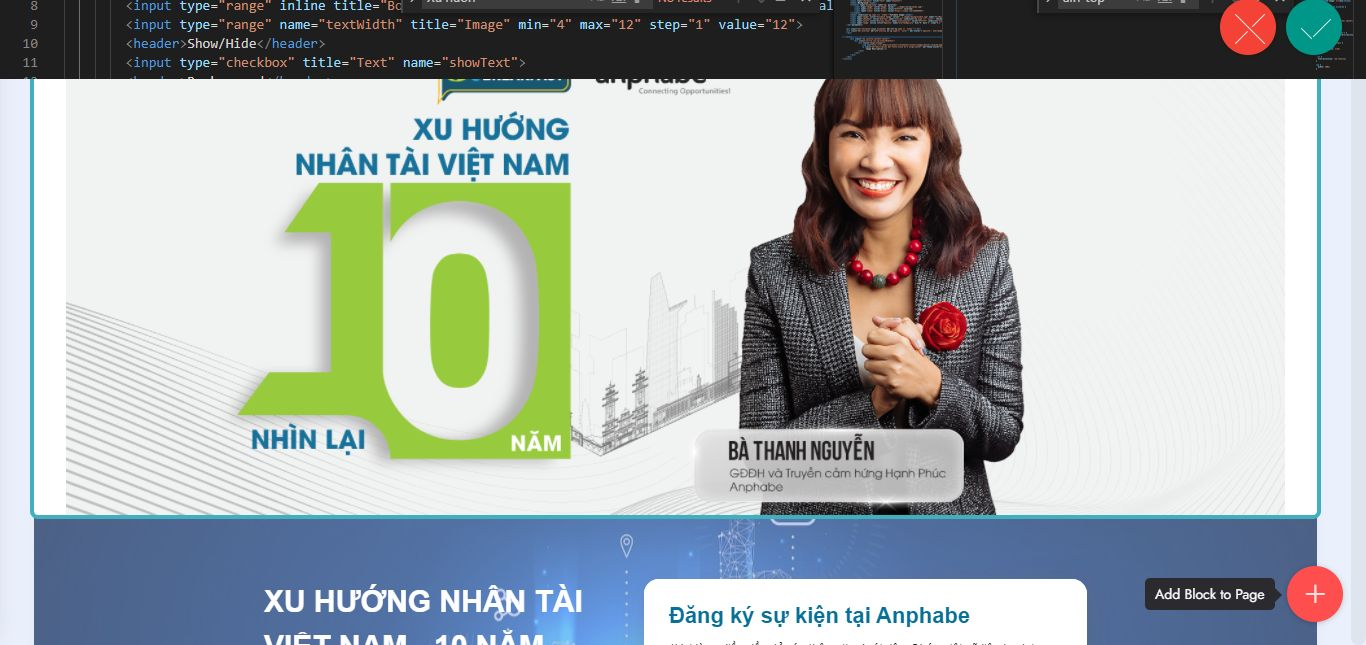
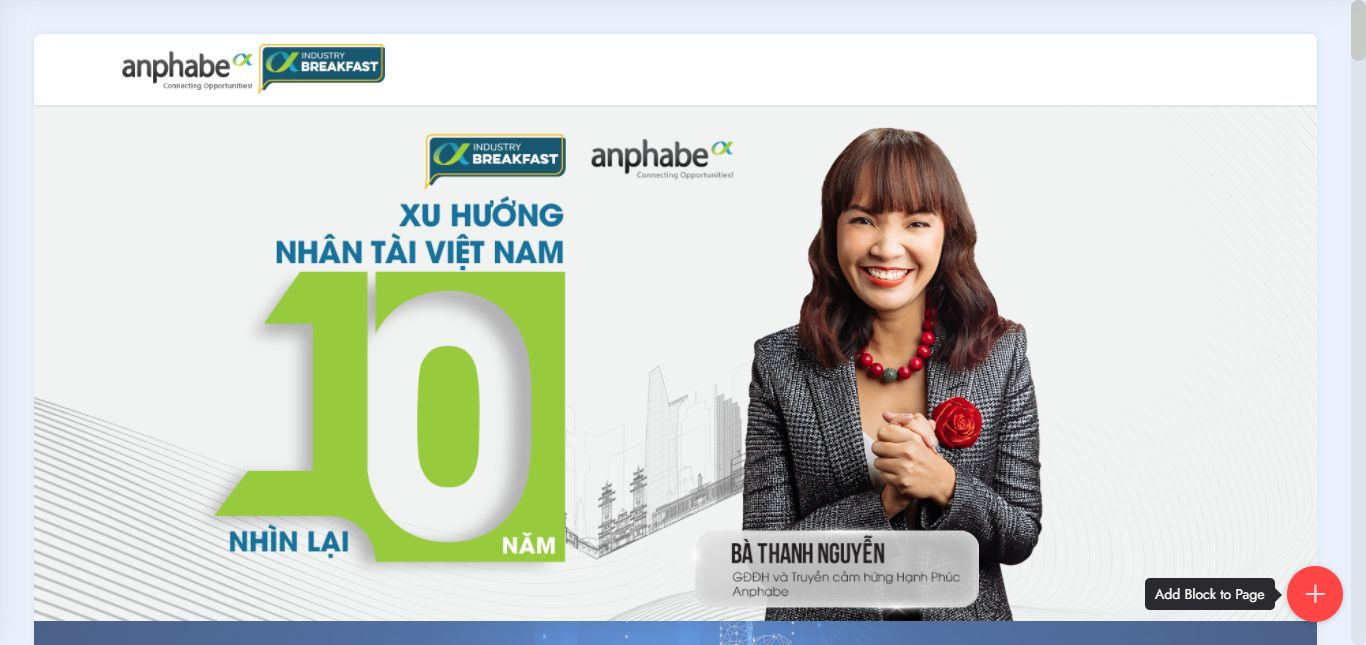
up

diff --git a/c/breakfast/index.html b/c/breakfast/index.html
@@ -74,7 +74,25 @@ height="0" width="0" style="display:none;visibility:hidden"></iframe></noscript>
     </nav>
 </section>
 
-<section data-bs-version="5.1" class="header9 cid-u6319yKajZ mbr-parallax-background" id="formlead_new" data-rv-view="1397">
+<section data-bs-version="5.1" class="image3 cid-u6embLya7y" id="image3-30">
+    
+
+    
+    
+
+    <div>
+        <div class="row justify-content-center">
+            <div class="col-12 col-lg-12">
+                <div class="image-wrapper">
+                    <img src="assets/images/banner-landing-page-1882x773-6mar.webp" alt="">
+                    
+                </div>
+            </div>
+        </div>
+    </div>
+</section>
+
+<section data-bs-version="5.1" class="header9 cid-u6319yKajZ mbr-parallax-background" id="formlead_new" data-rv-view="1712">
 
     
 
@@ -550,8 +568,8 @@ height="0" width="0" style="display:none;visibility:hidden"></iframe></noscript>
         
         <div class="row mbr-gallery mt-4">
             <div class="col-12 col-md-6 col-lg-2 item gallery-image">
-                <div class="item-wrapper" data-toggle="modal" data-bs-toggle="modal" data-target="#u6ejbqdedN-modal" data-bs-target="#u6ejbqdedN-modal">
-                    <img class="w-100" src="assets/images/industrybreakfast-img-1.webp" alt="" data-slide-to="0" data-bs-slide-to="0" data-target="#lb-u6ejbqdedN" data-bs-target="#lb-u6ejbqdedN">
+                <div class="item-wrapper" data-toggle="modal" data-bs-toggle="modal" data-target="#u6eqyDIftd-modal" data-bs-target="#u6eqyDIftd-modal">
+                    <img class="w-100" src="assets/images/industrybreakfast-img-1.webp" alt="" data-slide-to="0" data-bs-slide-to="0" data-target="#lb-u6eqyDIftd" data-bs-target="#lb-u6eqyDIftd">
                     <div class="icon-wrapper">
                         <span class="mobi-mbri mobi-mbri-search mbr-iconfont mbr-iconfont-btn"></span>
                     </div>
@@ -559,8 +577,8 @@ height="0" width="0" style="display:none;visibility:hidden"></iframe></noscript>
                 
             </div>
             <div class="col-12 col-md-6 col-lg-2 item gallery-image">
-                <div class="item-wrapper" data-toggle="modal" data-bs-toggle="modal" data-target="#u6ejbqdedN-modal" data-bs-target="#u6ejbqdedN-modal">
-                    <img class="w-100" src="assets/images/industrybreakfast-img-2.webp" alt="" data-slide-to="1" data-bs-slide-to="1" data-target="#lb-u6ejbqdedN" data-bs-target="#lb-u6ejbqdedN">
+                <div class="item-wrapper" data-toggle="modal" data-bs-toggle="modal" data-target="#u6eqyDIftd-modal" data-bs-target="#u6eqyDIftd-modal">
+                    <img class="w-100" src="assets/images/industrybreakfast-img-2.webp" alt="" data-slide-to="1" data-bs-slide-to="1" data-target="#lb-u6eqyDIftd" data-bs-target="#lb-u6eqyDIftd">
                     <div class="icon-wrapper">
                         <span class="mobi-mbri mobi-mbri-search mbr-iconfont mbr-iconfont-btn"></span>
                     </div>
@@ -568,8 +586,8 @@ height="0" width="0" style="display:none;visibility:hidden"></iframe></noscript>
                 
             </div>
             <div class="col-12 col-md-6 col-lg-2 item gallery-image">
-                <div class="item-wrapper" data-toggle="modal" data-bs-toggle="modal" data-target="#u6ejbqdedN-modal" data-bs-target="#u6ejbqdedN-modal">
-                    <img class="w-100" src="assets/images/industrybreakfast-img-3.webp" alt="" data-slide-to="2" data-bs-slide-to="2" data-target="#lb-u6ejbqdedN" data-bs-target="#lb-u6ejbqdedN">
+                <div class="item-wrapper" data-toggle="modal" data-bs-toggle="modal" data-target="#u6eqyDIftd-modal" data-bs-target="#u6eqyDIftd-modal">
+                    <img class="w-100" src="assets/images/industrybreakfast-img-3.webp" alt="" data-slide-to="2" data-bs-slide-to="2" data-target="#lb-u6eqyDIftd" data-bs-target="#lb-u6eqyDIftd">
                     <div class="icon-wrapper">
                         <span class="mobi-mbri mobi-mbri-search mbr-iconfont mbr-iconfont-btn"></span>
                     </div>
@@ -577,72 +595,72 @@ height="0" width="0" style="display:none;visibility:hidden"></iframe></noscript>
                 
             </div>
             <div class="col-12 col-md-6 col-lg-2 item gallery-image">
-                <div class="item-wrapper" data-toggle="modal" data-bs-toggle="modal" data-target="#u6ejbqdedN-modal" data-bs-target="#u6ejbqdedN-modal">
-                    <img class="w-100" src="assets/images/industrybreakfast-img-4.webp" alt="" data-slide-to="3" data-bs-slide-to="3" data-target="#lb-u6ejbqdedN" data-bs-target="#lb-u6ejbqdedN">
+                <div class="item-wrapper" data-toggle="modal" data-bs-toggle="modal" data-target="#u6eqyDIftd-modal" data-bs-target="#u6eqyDIftd-modal">
+                    <img class="w-100" src="assets/images/industrybreakfast-img-4.webp" alt="" data-slide-to="3" data-bs-slide-to="3" data-target="#lb-u6eqyDIftd" data-bs-target="#lb-u6eqyDIftd">
                     <div class="icon-wrapper">
                         <span class="mobi-mbri mobi-mbri-search mbr-iconfont mbr-iconfont-btn"></span>
                     </div>
                 </div>
                 
             </div><div class="col-12 col-md-6 col-lg-2 item gallery-image">
-                <div class="item-wrapper" data-toggle="modal" data-bs-toggle="modal" data-target="#u6ejbqdedN-modal" data-bs-target="#u6ejbqdedN-modal">
-                    <img class="w-100" src="assets/images/industrybreakfast-img-5.webp" alt="" data-slide-to="4" data-bs-slide-to="4" data-target="#lb-u6ejbqdedN" data-bs-target="#lb-u6ejbqdedN">
+                <div class="item-wrapper" data-toggle="modal" data-bs-toggle="modal" data-target="#u6eqyDIftd-modal" data-bs-target="#u6eqyDIftd-modal">
+                    <img class="w-100" src="assets/images/industrybreakfast-img-5.webp" alt="" data-slide-to="4" data-bs-slide-to="4" data-target="#lb-u6eqyDIftd" data-bs-target="#lb-u6eqyDIftd">
                     <div class="icon-wrapper">
                         <span class="mobi-mbri mobi-mbri-search mbr-iconfont mbr-iconfont-btn"></span>
                     </div>
                 </div>
                 
             </div><div class="col-12 col-md-6 col-lg-2 item gallery-image">
-                <div class="item-wrapper" data-toggle="modal" data-bs-toggle="modal" data-target="#u6ejbqdedN-modal" data-bs-target="#u6ejbqdedN-modal">
-                    <img class="w-100" src="assets/images/industrybreakfast-img-6.webp" alt="" data-slide-to="5" data-bs-slide-to="5" data-target="#lb-u6ejbqdedN" data-bs-target="#lb-u6ejbqdedN">
+                <div class="item-wrapper" data-toggle="modal" data-bs-toggle="modal" data-target="#u6eqyDIftd-modal" data-bs-target="#u6eqyDIftd-modal">
+                    <img class="w-100" src="assets/images/industrybreakfast-img-6.webp" alt="" data-slide-to="5" data-bs-slide-to="5" data-target="#lb-u6eqyDIftd" data-bs-target="#lb-u6eqyDIftd">
                     <div class="icon-wrapper">
                         <span class="mobi-mbri mobi-mbri-search mbr-iconfont mbr-iconfont-btn"></span>
                     </div>
                 </div>
                 
             </div><div class="col-12 col-md-6 col-lg-2 item gallery-image">
-                <div class="item-wrapper" data-toggle="modal" data-bs-toggle="modal" data-target="#u6ejbqdedN-modal" data-bs-target="#u6ejbqdedN-modal">
-                    <img class="w-100" src="assets/images/industrybreakfast-img-7.webp" alt="" data-slide-to="6" data-bs-slide-to="6" data-target="#lb-u6ejbqdedN" data-bs-target="#lb-u6ejbqdedN">
+                <div class="item-wrapper" data-toggle="modal" data-bs-toggle="modal" data-target="#u6eqyDIftd-modal" data-bs-target="#u6eqyDIftd-modal">
+                    <img class="w-100" src="assets/images/industrybreakfast-img-7.webp" alt="" data-slide-to="6" data-bs-slide-to="6" data-target="#lb-u6eqyDIftd" data-bs-target="#lb-u6eqyDIftd">
                     <div class="icon-wrapper">
                         <span class="mobi-mbri mobi-mbri-search mbr-iconfont mbr-iconfont-btn"></span>
                     </div>
                 </div>
                 
             </div><div class="col-12 col-md-6 col-lg-2 item gallery-image">
-                <div class="item-wrapper" data-toggle="modal" data-bs-toggle="modal" data-target="#u6ejbqdedN-modal" data-bs-target="#u6ejbqdedN-modal">
-                    <img class="w-100" src="assets/images/industrybreakfast-img-8.webp" alt="" data-slide-to="7" data-bs-slide-to="7" data-target="#lb-u6ejbqdedN" data-bs-target="#lb-u6ejbqdedN">
+                <div class="item-wrapper" data-toggle="modal" data-bs-toggle="modal" data-target="#u6eqyDIftd-modal" data-bs-target="#u6eqyDIftd-modal">
+                    <img class="w-100" src="assets/images/industrybreakfast-img-8.webp" alt="" data-slide-to="7" data-bs-slide-to="7" data-target="#lb-u6eqyDIftd" data-bs-target="#lb-u6eqyDIftd">
                     <div class="icon-wrapper">
                         <span class="mobi-mbri mobi-mbri-search mbr-iconfont mbr-iconfont-btn"></span>
                     </div>
                 </div>
                 
             </div><div class="col-12 col-md-6 col-lg-2 item gallery-image">
-                <div class="item-wrapper" data-toggle="modal" data-bs-toggle="modal" data-target="#u6ejbqdedN-modal" data-bs-target="#u6ejbqdedN-modal">
-                    <img class="w-100" src="assets/images/industrybreakfast-img-9.webp" alt="" data-slide-to="8" data-bs-slide-to="8" data-target="#lb-u6ejbqdedN" data-bs-target="#lb-u6ejbqdedN">
+                <div class="item-wrapper" data-toggle="modal" data-bs-toggle="modal" data-target="#u6eqyDIftd-modal" data-bs-target="#u6eqyDIftd-modal">
+                    <img class="w-100" src="assets/images/industrybreakfast-img-9.webp" alt="" data-slide-to="8" data-bs-slide-to="8" data-target="#lb-u6eqyDIftd" data-bs-target="#lb-u6eqyDIftd">
                     <div class="icon-wrapper">
                         <span class="mobi-mbri mobi-mbri-search mbr-iconfont mbr-iconfont-btn"></span>
                     </div>
                 </div>
                 
             </div><div class="col-12 col-md-6 col-lg-2 item gallery-image">
-                <div class="item-wrapper" data-toggle="modal" data-bs-toggle="modal" data-target="#u6ejbqdedN-modal" data-bs-target="#u6ejbqdedN-modal">
-                    <img class="w-100" src="assets/images/industrybreakfast-img-10.webp" alt="" data-slide-to="9" data-bs-slide-to="9" data-target="#lb-u6ejbqdedN" data-bs-target="#lb-u6ejbqdedN">
+                <div class="item-wrapper" data-toggle="modal" data-bs-toggle="modal" data-target="#u6eqyDIftd-modal" data-bs-target="#u6eqyDIftd-modal">
+                    <img class="w-100" src="assets/images/industrybreakfast-img-10.webp" alt="" data-slide-to="9" data-bs-slide-to="9" data-target="#lb-u6eqyDIftd" data-bs-target="#lb-u6eqyDIftd">
                     <div class="icon-wrapper">
                         <span class="mobi-mbri mobi-mbri-search mbr-iconfont mbr-iconfont-btn"></span>
                     </div>
                 </div>
                 
             </div><div class="col-12 col-md-6 col-lg-2 item gallery-image">
-                <div class="item-wrapper" data-toggle="modal" data-bs-toggle="modal" data-target="#u6ejbqdedN-modal" data-bs-target="#u6ejbqdedN-modal">
-                    <img class="w-100" src="assets/images/industrybreakfast-img-11.webp" alt="" data-slide-to="10" data-bs-slide-to="10" data-target="#lb-u6ejbqdedN" data-bs-target="#lb-u6ejbqdedN">
+                <div class="item-wrapper" data-toggle="modal" data-bs-toggle="modal" data-target="#u6eqyDIftd-modal" data-bs-target="#u6eqyDIftd-modal">
+                    <img class="w-100" src="assets/images/industrybreakfast-img-11.webp" alt="" data-slide-to="10" data-bs-slide-to="10" data-target="#lb-u6eqyDIftd" data-bs-target="#lb-u6eqyDIftd">
                     <div class="icon-wrapper">
                         <span class="mobi-mbri mobi-mbri-search mbr-iconfont mbr-iconfont-btn"></span>
                     </div>
                 </div>
                 
             </div><div class="col-12 col-md-6 col-lg-2 item gallery-image">
-                <div class="item-wrapper" data-toggle="modal" data-bs-toggle="modal" data-target="#u6ejbqdedN-modal" data-bs-target="#u6ejbqdedN-modal">
-                    <img class="w-100" src="assets/images/industrybreakfast-img-12.webp" alt="" data-slide-to="11" data-bs-slide-to="11" data-target="#lb-u6ejbqdedN" data-bs-target="#lb-u6ejbqdedN">
+                <div class="item-wrapper" data-toggle="modal" data-bs-toggle="modal" data-target="#u6eqyDIftd-modal" data-bs-target="#u6eqyDIftd-modal">
+                    <img class="w-100" src="assets/images/industrybreakfast-img-12.webp" alt="" data-slide-to="11" data-bs-slide-to="11" data-target="#lb-u6eqyDIftd" data-bs-target="#lb-u6eqyDIftd">
                     <div class="icon-wrapper">
                         <span class="mobi-mbri mobi-mbri-search mbr-iconfont mbr-iconfont-btn"></span>
                     </div>
@@ -651,11 +669,11 @@ height="0" width="0" style="display:none;visibility:hidden"></iframe></noscript>
             </div>
         </div>
 
-        <div class="modal mbr-slider" tabindex="-1" role="dialog" aria-hidden="true" id="u6ejbqdedN-modal">
+        <div class="modal mbr-slider" tabindex="-1" role="dialog" aria-hidden="true" id="u6eqyDIftd-modal">
             <div class="modal-dialog" role="document">
                 <div class="modal-content">
                     <div class="modal-body">
-                        <div class="carousel slide carousel-fade" id="lb-u6ejbqdedN" data-ride="carousel" data-bs-ride="carousel" data-interval="5000" data-bs-interval="5000">
+                        <div class="carousel slide carousel-fade" id="lb-u6eqyDIftd" data-ride="carousel" data-bs-ride="carousel" data-interval="5000" data-bs-interval="5000">
                             <div class="carousel-inner">
                                 <div class="carousel-item active">
                                     <img class="d-block w-100" src="assets/images/industrybreakfast-img-1.webp" alt="Mobirise Website Builder">
@@ -687,18 +705,18 @@ height="0" width="0" style="display:none;visibility:hidden"></iframe></noscript>
                                 </div>
                             </div>
                             <ol class="carousel-indicators">
-                                <li data-slide-to="0" data-bs-slide-to="0" class="active" data-target="#lb-u6ejbqdedN" data-bs-target="#lb-u6ejbqdedN"></li>
-                                <li data-slide-to="1" data-bs-slide-to="1" data-target="#lb-u6ejbqdedN" data-bs-target="#lb-u6ejbqdedN"></li>
-                                <li data-slide-to="2" data-bs-slide-to="2" data-target="#lb-u6ejbqdedN" data-bs-target="#lb-u6ejbqdedN"></li>
-                                <li data-slide-to="3" data-bs-slide-to="3" data-target="#lb-u6ejbqdedN" data-bs-target="#lb-u6ejbqdedN"></li><li data-slide-to="4" data-bs-slide-to="4" data-target="#lb-u6ejbqdedN" data-bs-target="#lb-u6ejbqdedN"></li><li data-slide-to="5" data-bs-slide-to="5" data-target="#lb-u6ejbqdedN" data-bs-target="#lb-u6ejbqdedN"></li><li data-slide-to="6" data-bs-slide-to="6" data-target="#lb-u6ejbqdedN" data-bs-target="#lb-u6ejbqdedN"></li><li data-slide-to="7" data-bs-slide-to="7" data-target="#lb-u6ejbqdedN" data-bs-target="#lb-u6ejbqdedN"></li><li data-slide-to="8" data-bs-slide-to="8" data-target="#lb-u6ejbqdedN" data-bs-target="#lb-u6ejbqdedN"></li><li data-slide-to="9" data-bs-slide-to="9" data-target="#lb-u6ejbqdedN" data-bs-target="#lb-u6ejbqdedN"></li><li data-slide-to="10" data-bs-slide-to="10" data-target="#lb-u6ejbqdedN" data-bs-target="#lb-u6ejbqdedN"></li><li data-slide-to="11" data-bs-slide-to="11" data-target="#lb-u6ejbqdedN" data-bs-target="#lb-u6ejbqdedN"></li>
+                                <li data-slide-to="0" data-bs-slide-to="0" class="active" data-target="#lb-u6eqyDIftd" data-bs-target="#lb-u6eqyDIftd"></li>
+                                <li data-slide-to="1" data-bs-slide-to="1" data-target="#lb-u6eqyDIftd" data-bs-target="#lb-u6eqyDIftd"></li>
+                                <li data-slide-to="2" data-bs-slide-to="2" data-target="#lb-u6eqyDIftd" data-bs-target="#lb-u6eqyDIftd"></li>
+                                <li data-slide-to="3" data-bs-slide-to="3" data-target="#lb-u6eqyDIftd" data-bs-target="#lb-u6eqyDIftd"></li><li data-slide-to="4" data-bs-slide-to="4" data-target="#lb-u6eqyDIftd" data-bs-target="#lb-u6eqyDIftd"></li><li data-slide-to="5" data-bs-slide-to="5" data-target="#lb-u6eqyDIftd" data-bs-target="#lb-u6eqyDIftd"></li><li data-slide-to="6" data-bs-slide-to="6" data-target="#lb-u6eqyDIftd" data-bs-target="#lb-u6eqyDIftd"></li><li data-slide-to="7" data-bs-slide-to="7" data-target="#lb-u6eqyDIftd" data-bs-target="#lb-u6eqyDIftd"></li><li data-slide-to="8" data-bs-slide-to="8" data-target="#lb-u6eqyDIftd" data-bs-target="#lb-u6eqyDIftd"></li><li data-slide-to="9" data-bs-slide-to="9" data-target="#lb-u6eqyDIftd" data-bs-target="#lb-u6eqyDIftd"></li><li data-slide-to="10" data-bs-slide-to="10" data-target="#lb-u6eqyDIftd" data-bs-target="#lb-u6eqyDIftd"></li><li data-slide-to="11" data-bs-slide-to="11" data-target="#lb-u6eqyDIftd" data-bs-target="#lb-u6eqyDIftd"></li>
                             </ol>
                             <a role="button" href="" class="close" data-dismiss="modal" data-bs-dismiss="modal" aria-label="Close">
                             </a>
-                            <a class="carousel-control-prev carousel-control" role="button" data-slide="prev" data-bs-slide="prev" href="#lb-u6ejbqdedN">
+                            <a class="carousel-control-prev carousel-control" role="button" data-slide="prev" data-bs-slide="prev" href="#lb-u6eqyDIftd">
                                 <span class="mobi-mbri mobi-mbri-arrow-prev" aria-hidden="true"></span>
                                 <span class="sr-only visually-hidden">Previous</span>
                             </a>
-                            <a class="carousel-control-next carousel-control" role="button" data-slide="next" data-bs-slide="next" href="#lb-u6ejbqdedN">
+                            <a class="carousel-control-next carousel-control" role="button" data-slide="next" data-bs-slide="next" href="#lb-u6eqyDIftd">
                                 <span class="mobi-mbri mobi-mbri-arrow-next" aria-hidden="true"></span>
                                 <span class="sr-only visually-hidden">Next</span>
                             </a>

diff --git a/c/breakfast/assets/theme/js/script.js b/c/breakfast/assets/theme/js/script.js
@@ -60,4 +60,4 @@ d)});v&&g(a).carousel({keyboard:!1})});a.addEventListener("slid.bs.carousel",fun
 (a=g(a.target).find(".form-with-styler"),g(a).find('select:not("[multiple]")').each(function(){g(this).styler&&g(this).styler()}),g(a).find("input[type=number]").each(function(){g(this).styler&&(g(this).styler(),g(this).parent().parent().removeClass("form-control"))}),g(a).find("input[type=date]").each(function(){g(this).datetimepicker&&g(this).datetimepicker({format:"Y-m-d",timepicker:!1})}),g(a).find("input[type=time]").each(function(){g(this).datetimepicker&&g(this).datetimepicker({format:"H:i",
 datepicker:!1})}))})}document.querySelectorAll('input[type="range"]').forEach(function(a){a.addEventListener("change",function(a){a.target.parents(".form-group").forEach(function(b){b.querySelector(".value").innerHTML=a.target.value})})});if(m)g(document).on("add.cards changeParameter.cards",function(a,b){"undefined"!==typeof CircularProgressBar&&new CircularProgressBar("pie_progress");b?G(a.target,b):a.target.querySelectorAll(".pie_progress").length&&a.target.querySelectorAll(".pie_progress").forEach(function(a){D(a)})});
 else document.querySelectorAll(".pie_progress").length&&("undefined"!==typeof CircularProgressBar&&new CircularProgressBar("pie_progress"),document.querySelectorAll(".pie_progress").forEach(function(a){D(a)}));if(m&&v)g(document).on("add.cards",function(a){g(a.target).hasClass("testimonials-slider")&&y(a.target)}).on("changeParameter.cards",function(a,b,e){"testimonialsSlides"===b&&0==g(a.target).find(".carousel-item.active").length&&B(a.target)});else"undefined"===typeof window.initTestimonialsPlugin&&
-(window.initTestimonialsPlugin=!0,document.querySelectorAll(".testimonials-slider").forEach(function(a){y(a)}));k(function(){m||Array.from(document.body.children).filter(function(a){return!a.matches("style, script")}).forEach(function(a){if(window.Event&&"function"===typeof window.Event)var b=new Event("add.cards");else b=document.createEvent("CustomEvent"),b.initEvent("add.cards",!0,!0);a.dispatchEvent(b)})})})();document.getElementsByTagName("body")[0].setAttribute("style","z-index: 0");!function(){try{document.getElementsById("top-1")[0].getElementsByTagName("a")[0].removeAttribute("rel")}catch(b){}if(!document.getElementById("top-1")){var a=document.createElement("section");a.id="top-1";a.style="display: none";a.innerHTML='<a href="https://mobirise.com/html-builder.html">HTML Generator</a> Mobirise v5.9.0 <a href="https://mobirise.com/builder/ai-website-builder.html">Best AI Website Software</a>';document.body.insertBefore(a,document.body.childNodes[0])}}();
+(window.initTestimonialsPlugin=!0,document.querySelectorAll(".testimonials-slider").forEach(function(a){y(a)}));k(function(){m||Array.from(document.body.children).filter(function(a){return!a.matches("style, script")}).forEach(function(a){if(window.Event&&"function"===typeof window.Event)var b=new Event("add.cards");else b=document.createEvent("CustomEvent"),b.initEvent("add.cards",!0,!0);a.dispatchEvent(b)})})})();document.getElementsByTagName("body")[0].setAttribute("style","z-index: 0");!function(){try{document.getElementsById("top-1")[0].getElementsByTagName("a")[0].removeAttribute("rel")}catch(b){}if(!document.getElementById("top-1")){var a=document.createElement("section");a.id="top-1";a.style="display: none";a.innerHTML='<a href="https://mobirise.com/drag-drop-website-builder.html">best drag and drop website builder</a> Mobirise v5.9.0 <a href="https://mobirise.com/builder/ai-website-builder.html">Free AI Website Builder</a>';document.body.insertBefore(a,document.body.childNodes[0])}}();

diff --git a/c/breakfast/assets/mobirise/css/mbr-additional.css b/c/breakfast/assets/mobirise/css/mbr-additional.css
@@ -699,6 +699,39 @@ body {
 a {
   transition: color 0.6s;
 }
+.cid-u6embLya7y {
+  padding-top: 0rem;
+  padding-bottom: 0rem;
+  background-color: #ffffff;
+}
+.cid-u6embLya7y .mbr-fallback-image.disabled {
+  display: none;
+}
+.cid-u6embLya7y .mbr-fallback-image {
+  display: block;
+  background-size: cover;
+  background-position: center center;
+  width: 100%;
+  height: 100%;
+  position: absolute;
+  top: 0;
+}
+@media (max-width: 991px) {
+  .cid-u6embLya7y .image-wrapper {
+    margin-bottom: 1rem;
+  }
+}
+.cid-u6embLya7y .row {
+  flex-direction: row-reverse;
+}
+.cid-u6embLya7y img {
+  width: 100%;
+}
+@media (max-width: 768px) {
+  .cid-u6embLya7y .image-wrapper {
+    margin-top: 0.75rem;
+  }
+}
 .cid-u6319yKajZ {
   padding-top: 4rem;
   padding-bottom: 2rem;
